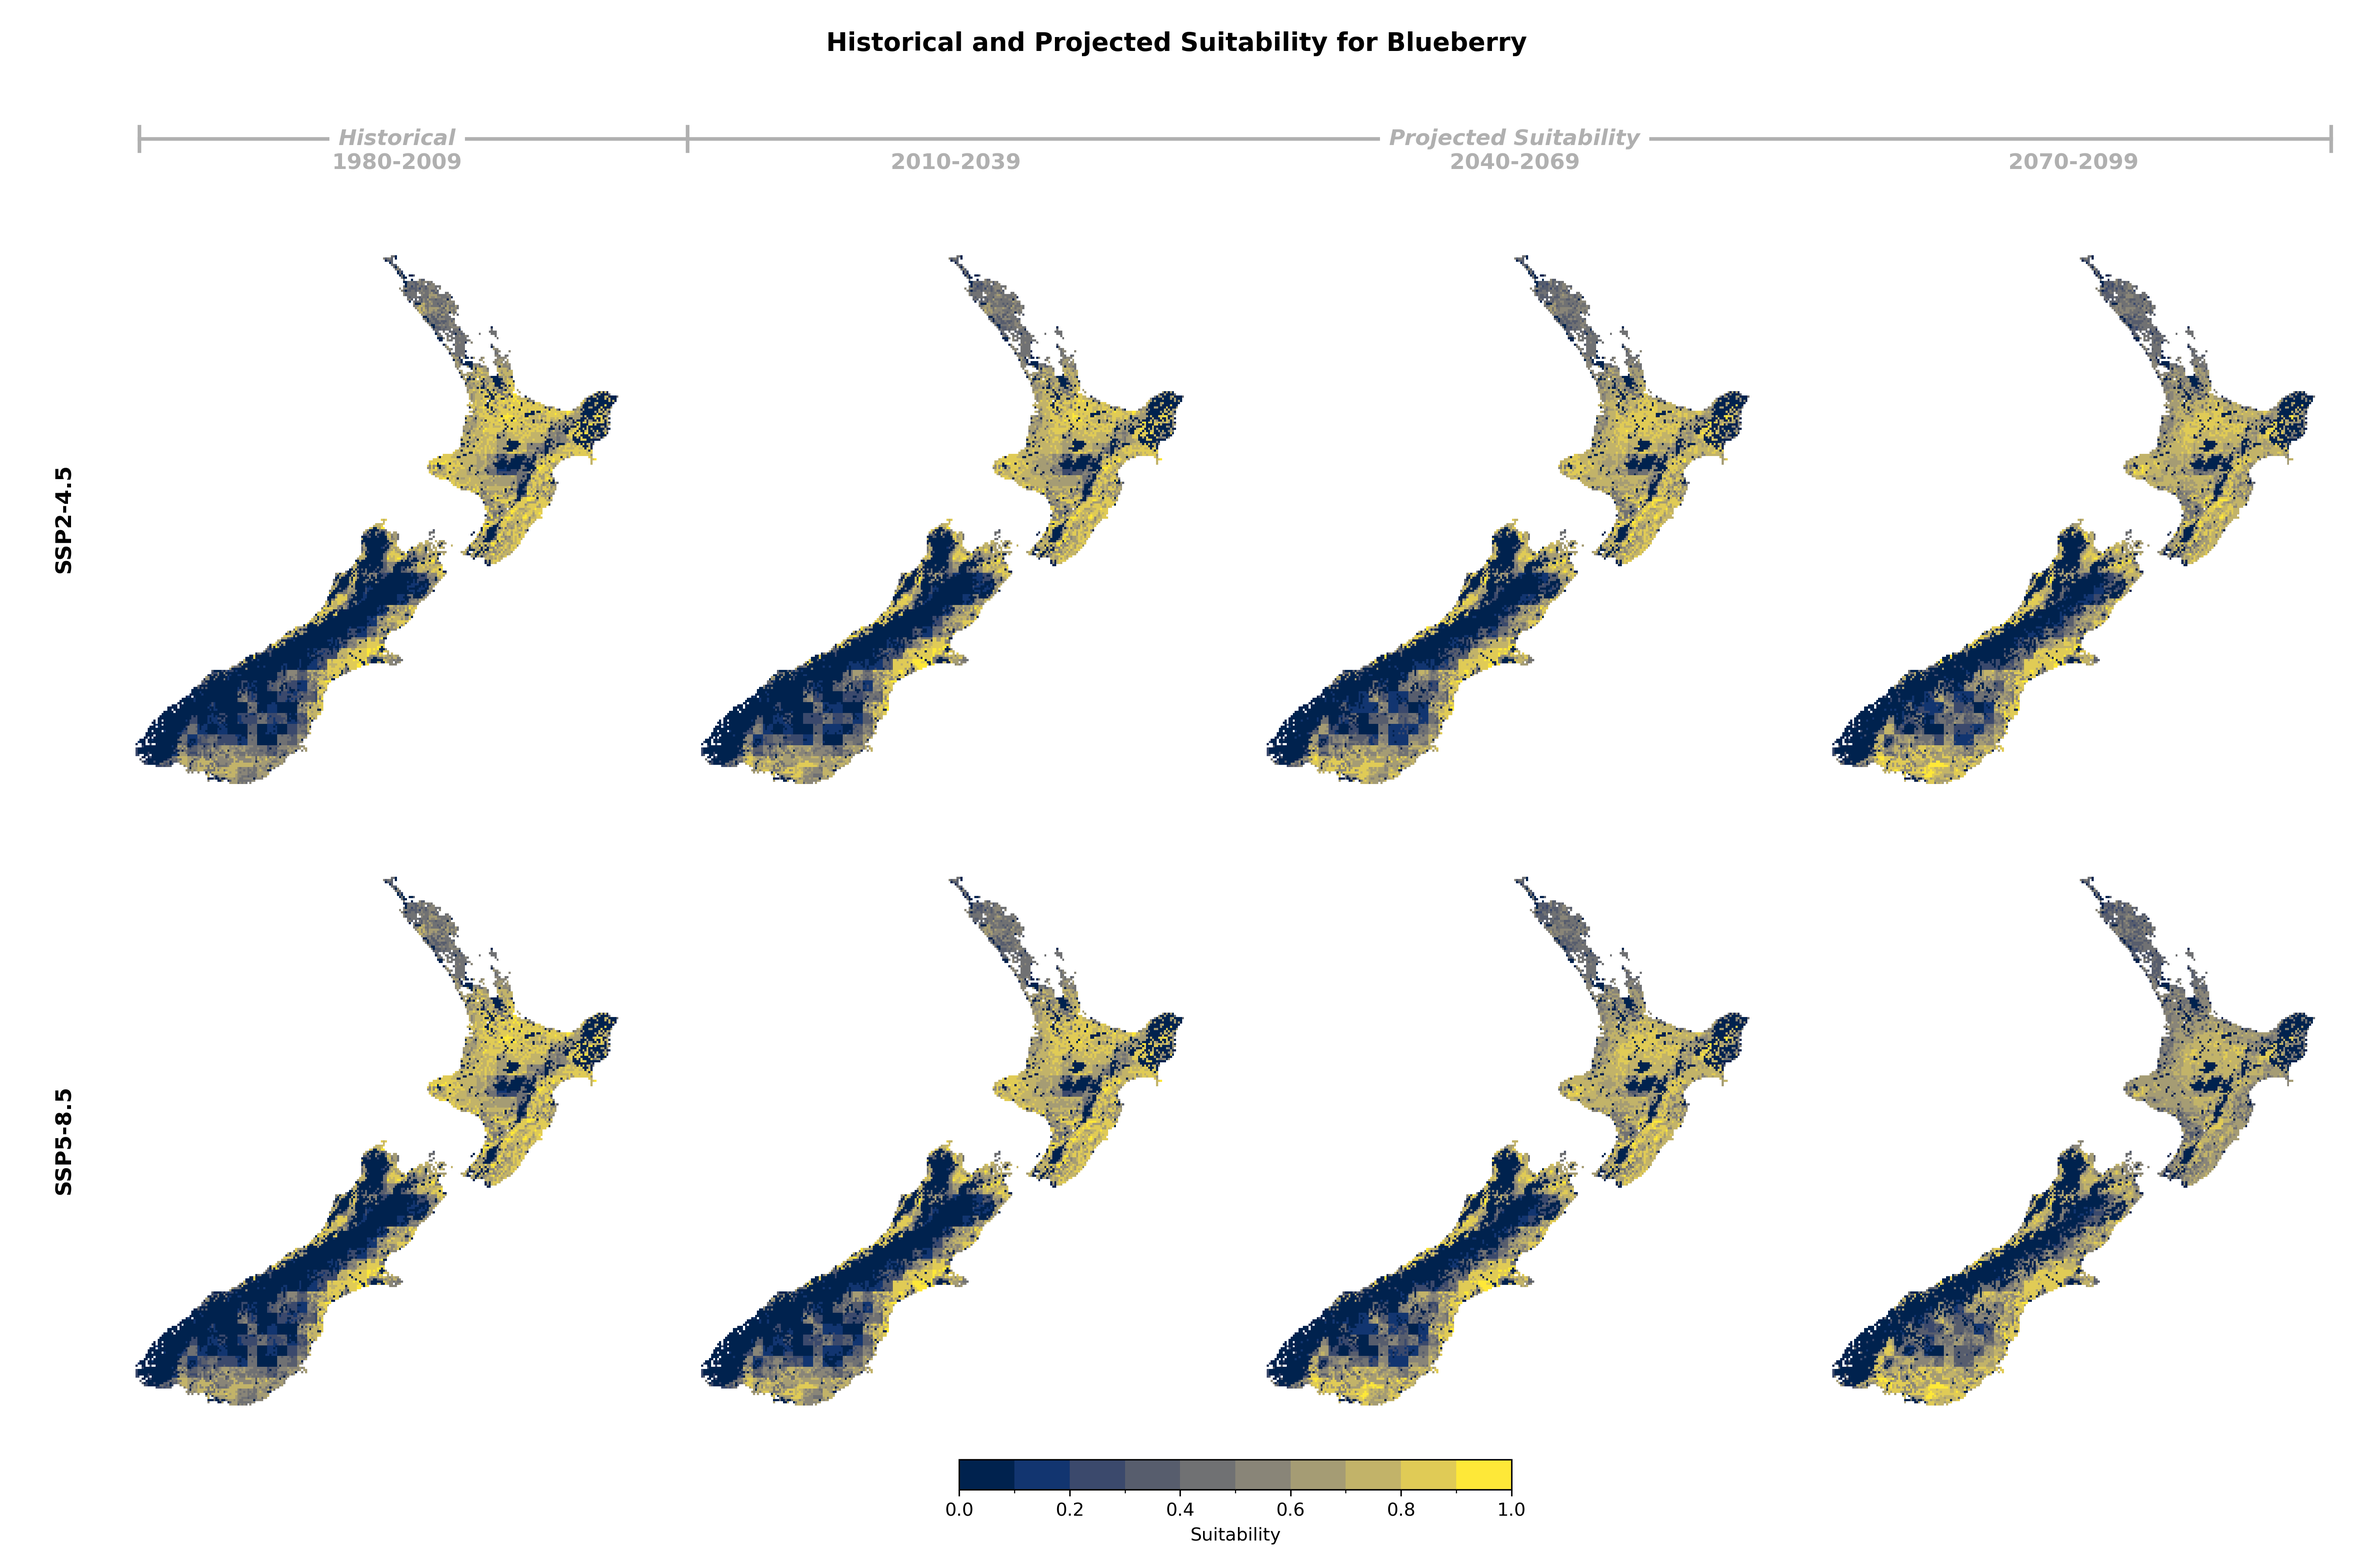
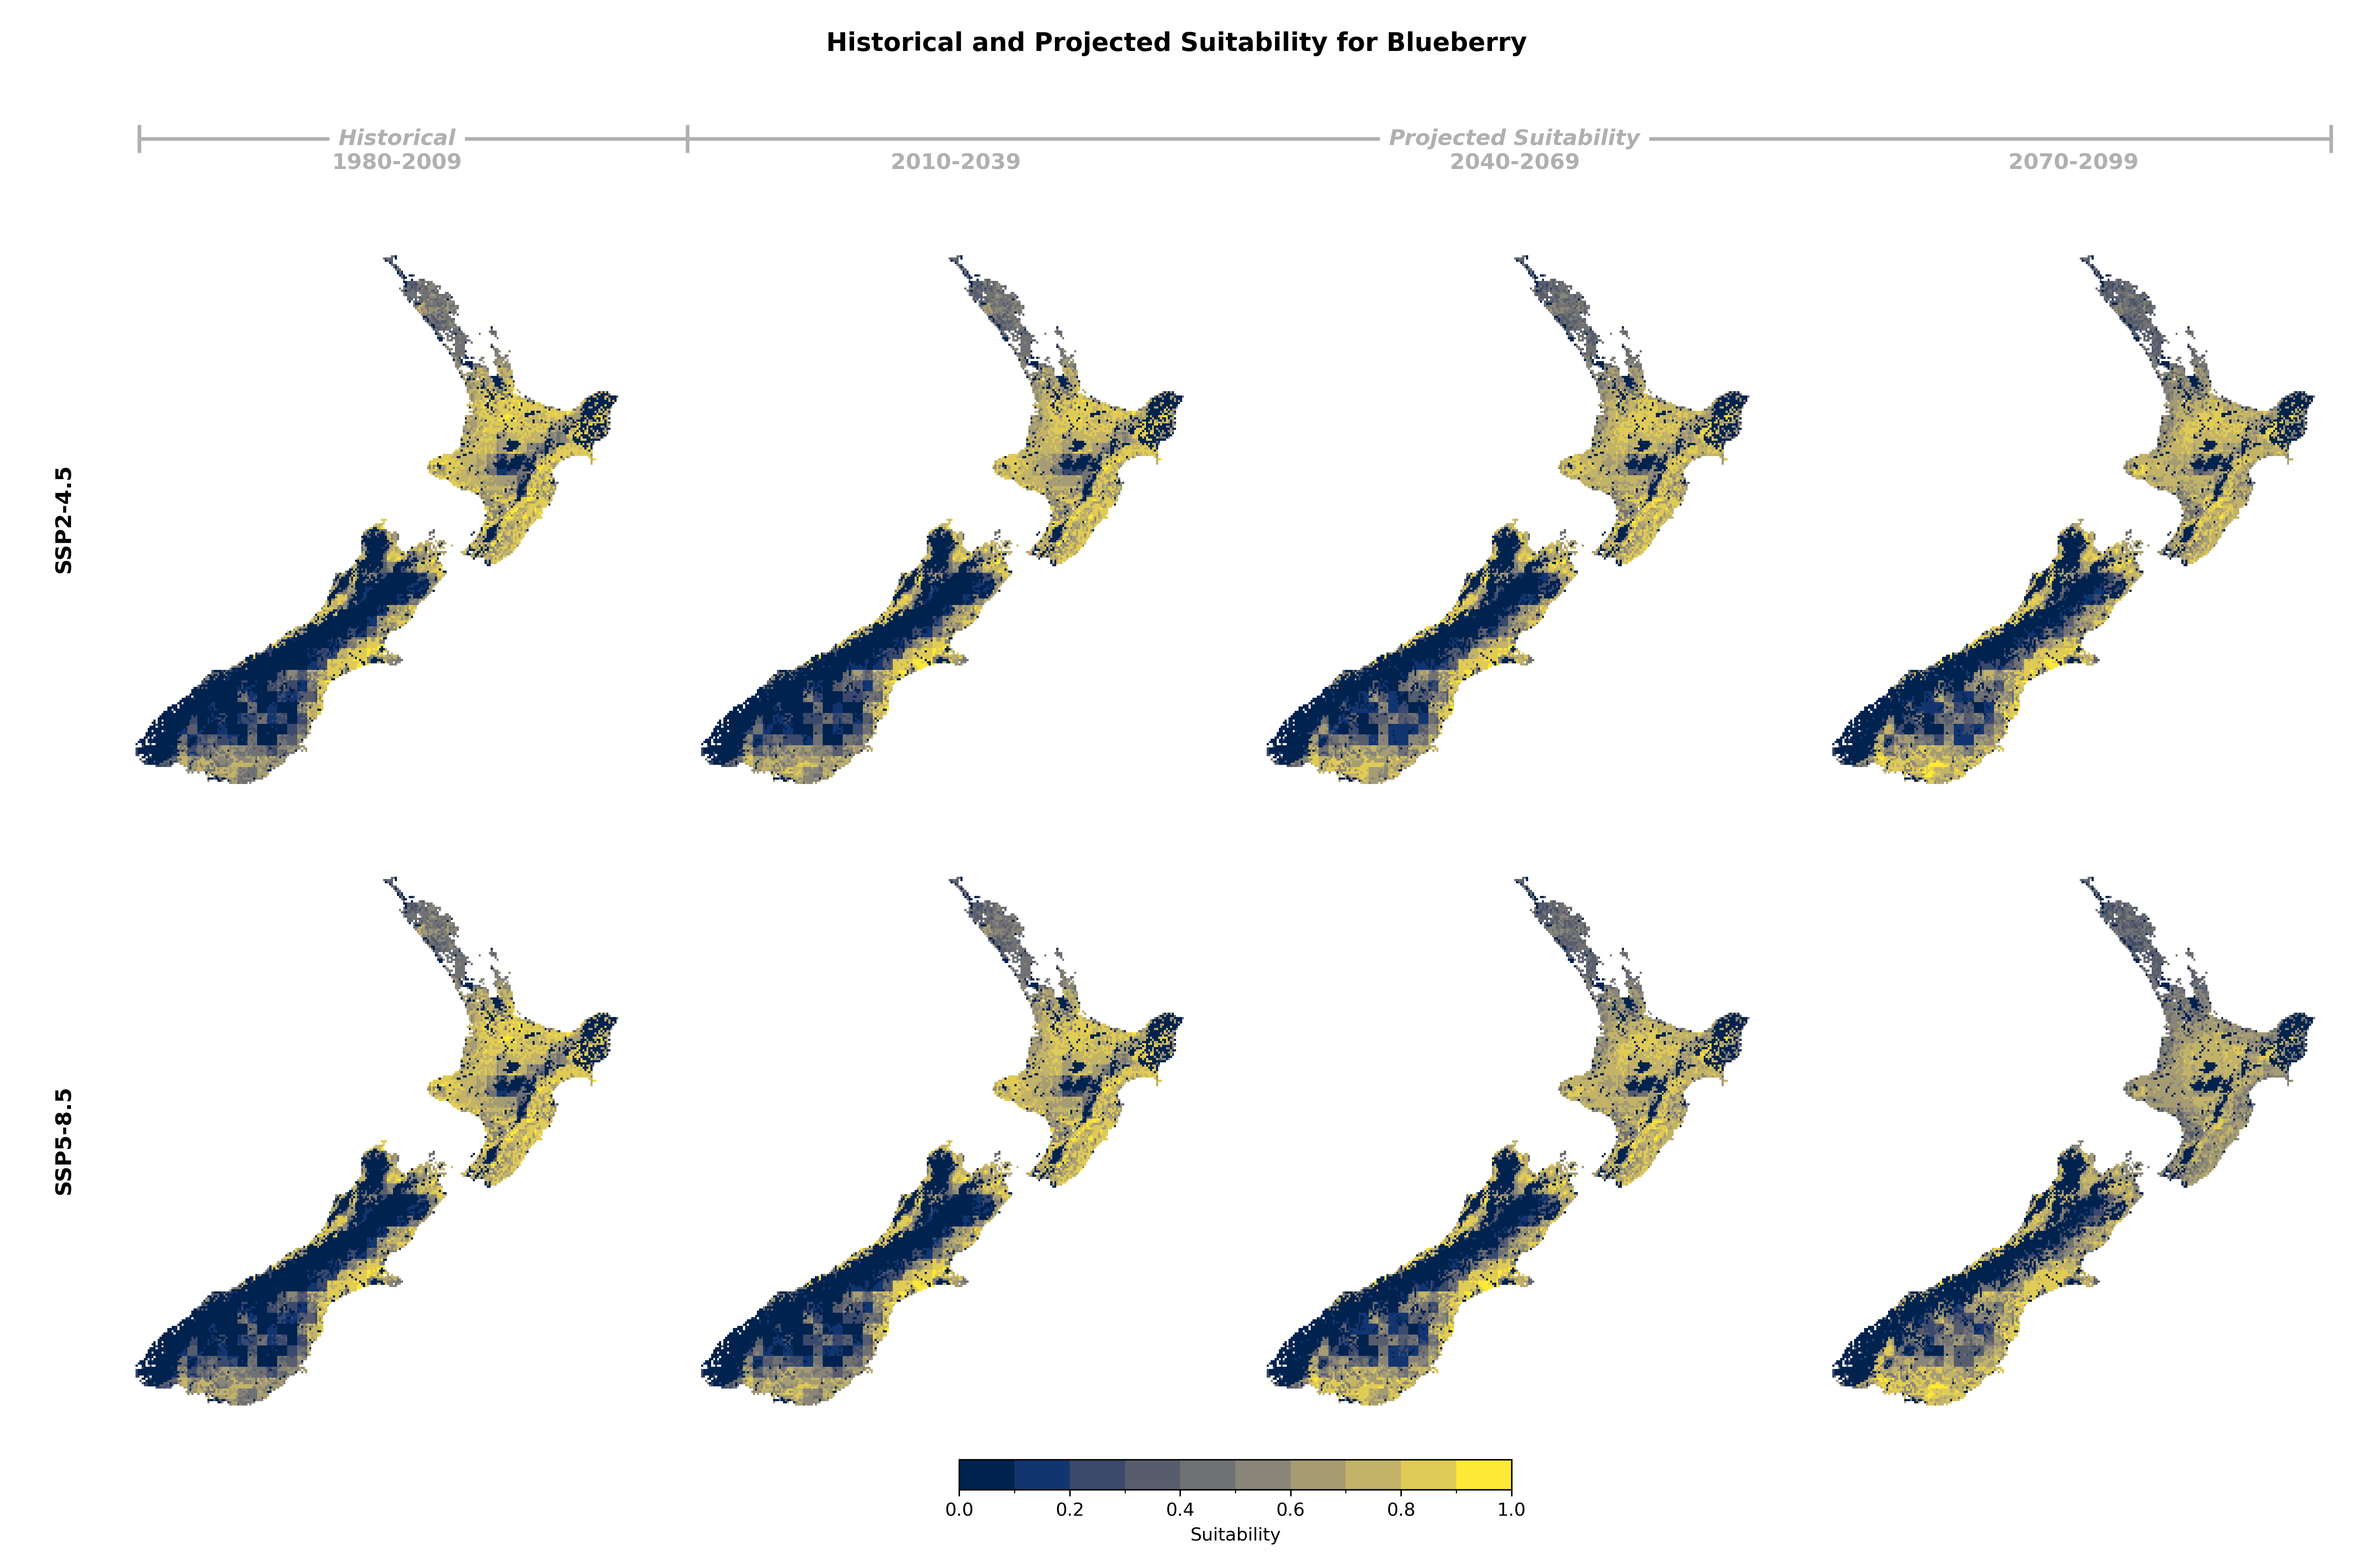
Add Blueberry 1km suitability

diff --git a/docs/landuses/blueberry.md b/docs/landuses/blueberry.md
@@ -8,11 +8,11 @@ title: Blueberry
 
 ### Suitability Values
 
-![](../_static/summary_figs/blueberry_suitability_SSP245-SSP585_5km_v1.0.png)
+![](../_static/summary_figs/blueberry_suitability_SSP245-SSP585_1km_v1.0.png)
 
 ### Suitability Changes
 
-![](../_static/summary_figs/blueberry_suitability_change_SSP245-SSP585_5km_v1.0.png)
+![](../_static/summary_figs/blueberry_suitability_change_SSP245-SSP585_1km_v1.0.png)
 
 :::
 
@@ -28,6 +28,6 @@ The following criteria were used to model the suitability of Blueberry:
 | soil/Terrain | Land Use Capability Class |
 | soil/Terrain | Soil pH |
 | Climate | Chilling hours between May 1 and Aug 31 |
-| Climate | Frost survival flowering period (from Sept 1 to Oct 31) |
+| Climate | Frost survival during flowering period (from Sept 1 to Oct 31) |
 | Climate | Growing degree days between Oct 1 and Apr 30 |
 : {tbl-colwidths="[25,75]"}
